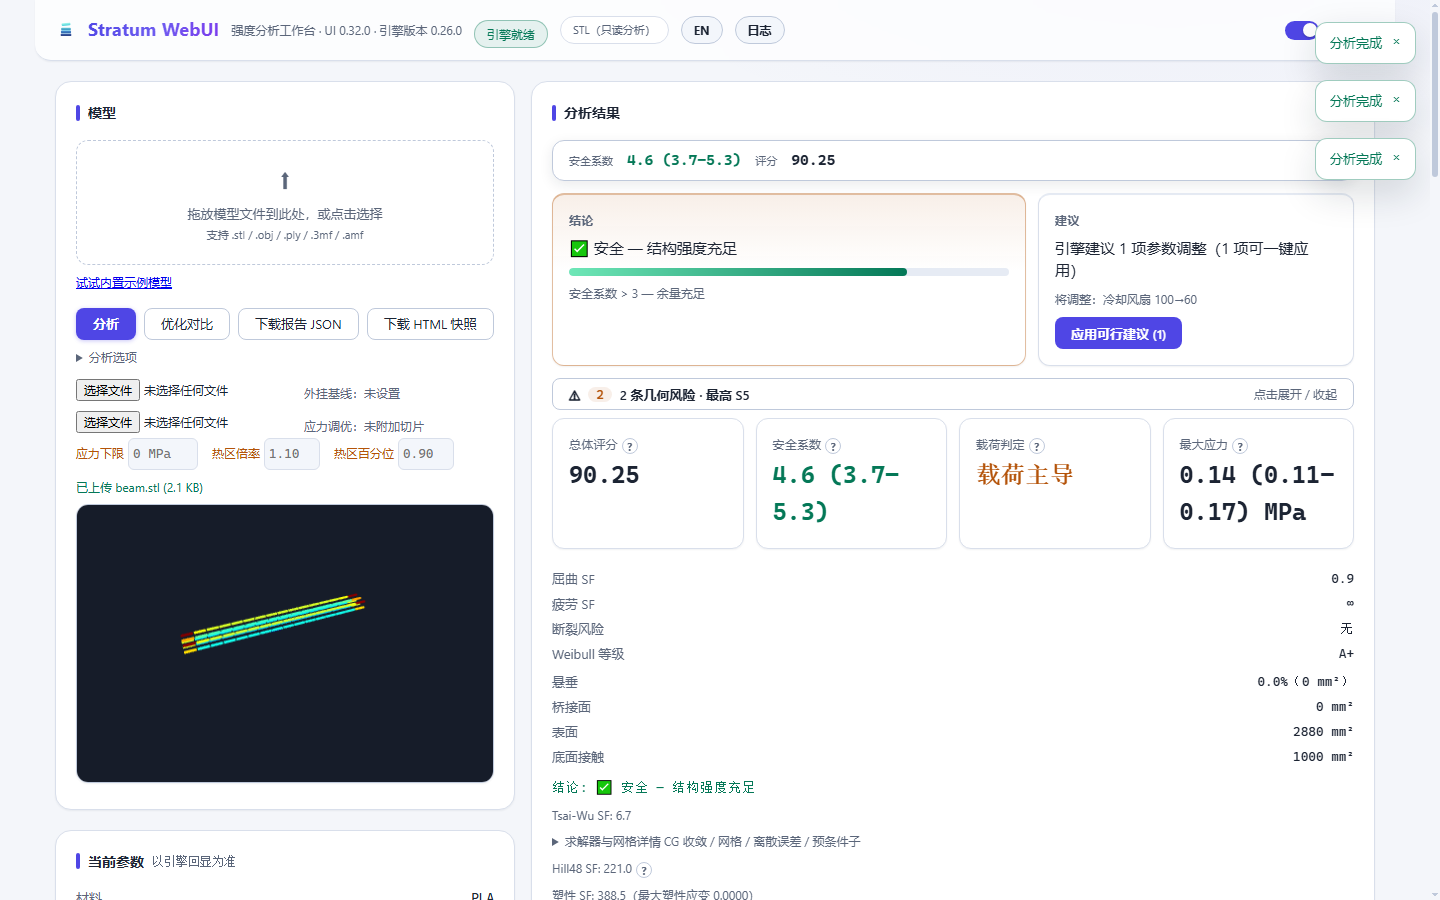
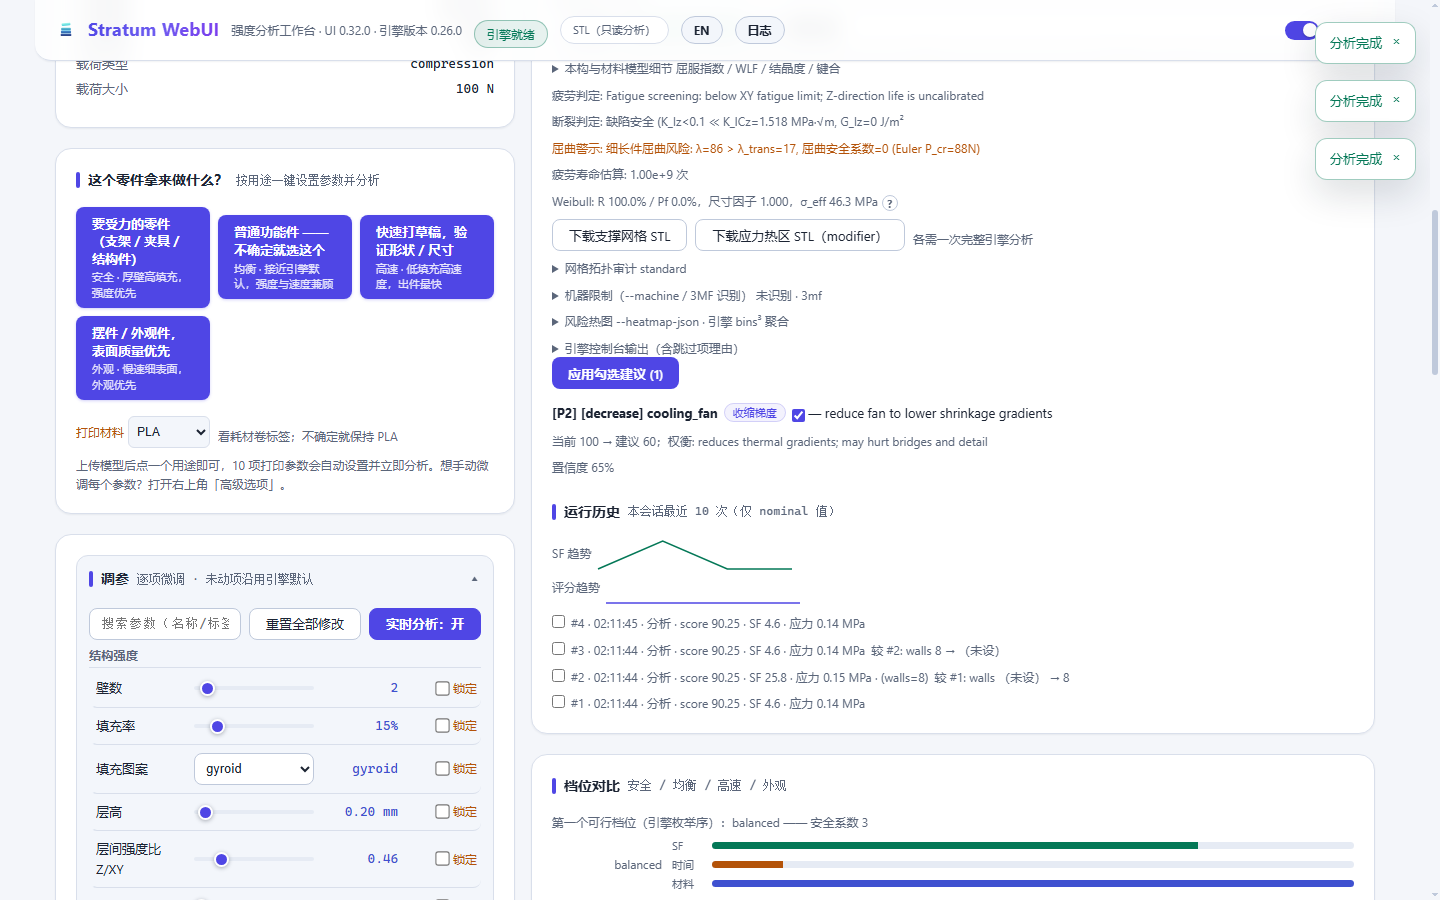
feat(webui): novice-flow trio — preset-to-sample bridge, verdict auto-scroll in simple mode, pre-report action row slim (v0.33.0)

diff --git a/tests/ux_alignment_check.js b/tests/ux_alignment_check.js
@@ -195,9 +195,12 @@ async function main() {
     // left at 3 and silently red since e7e53c3 — surfaced during v0.18 E10
     // work. Spirit of the pin: the row's composition is deliberate and the
     // dirty chip stays a span (E9 re-checks span-ness).
-    expect("E3 options: collapsed by default, badge hidden, primary row = 4 buttons",
+    // v0.33: pre-report (pristine) the export/compare trio hides under
+    // body.no-report — a disabled grey button with nothing to export is
+    // first-run noise; the full row returns with the first report (W18 below).
+    expect("E3 options: collapsed by default, badge hidden, pristine row = 分析 only",
            opt !== "missing" && opt.open === false && opt.badge === "none"
-           && opt.btns === "分析,优化对比,下载报告 JSON,下载 HTML 快照", JSON.stringify(opt));
+           && opt.btns === "分析", JSON.stringify(opt));
     await evalJs("(function(){var c=document.getElementById('opt-fast');" +
       "c.checked=true;c.dispatchEvent(new Event('change'));return 1})()");
     const badgeOn = await evalJs("(function(){var b=document.getElementById('opt-count');" +
@@ -859,6 +862,91 @@ async function main() {
     expect("E17h height: risky beam simple page ≤2200 (worst shape)",
            hB.simple === true && hB.wallOpen === false && hB.h <= 2200,
            JSON.stringify(hB));
+
+    // ---- W18 (v0.33) novice-flow trio: preset→sample bridge / verdict
+    // auto-scroll (simple, user-initiated) / pre-report action row ----
+    // pristine reset: drop the persisted session (page reload keeps
+    // sessionStorage per tab, so clear it explicitly) and force simple mode
+    await evalJs("try{sessionStorage.removeItem('stratum_session')}catch(e){};" +
+      "try{localStorage.setItem('stratum-ui-mode','0')}catch(e){}; 1");
+    await send("Page.reload");
+    for (let i = 0; i < 50; i++) {
+      if (await evalJs("typeof renderReport") === "function") break;
+      await sleep(150);
+    }
+    await sleep(600);  // status/presets arrive async — bridge needs both
+    const pristineRow = await evalJs("(function(){var host=" +
+      "document.getElementById('opt-details').parentNode;var b=[];" +
+      "host.querySelectorAll('.actions > button').forEach(function(x){" +
+      "if(x.offsetParent!==null)b.push(x.textContent)});" +
+      "return JSON.stringify({row:b.join(',')," +
+      "noReport:document.body.classList.contains('no-report')," +
+      "presetEnabled:(document.querySelectorAll('.preset-btn')[0]||{}).disabled===false})})()");
+    expect("W18 pristine: simple row = 分析 only + preset cards live (bridge)",
+           pristineRow.indexOf('"row":"分析"') >= 0
+           && pristineRow.indexOf('"noReport":true') >= 0
+           && pristineRow.indexOf('"presetEnabled":true') >= 0,
+           pristineRow);
+    // W2 bridge: click a preset card with NO model → sample loads, preset
+    // applies, one real analysis lands
+    await evalJs("(function(){var b=document.querySelector('.preset-btn[data-preset=safe]');" +
+      "if(b)b.click();return 1})()");
+    const bridgeOk = await waitDone("bridge run");
+    const bridge = await evalJs("(function(){return JSON.stringify({" +
+      "msg:document.getElementById('upload-msg').textContent," +
+      "cards:document.querySelectorAll('#summary-cards .sum-card').length," +
+      "walls:document.getElementById('cp-walls').textContent})})()");
+    expect("W18 bridge: preset click with no model loads the sample + applies it",
+           bridgeOk === true
+           && bridge.indexOf("已载入示例") >= 0
+           && bridge.indexOf('"cards":2') >= 0
+           && bridge.indexOf('"walls":"5"') >= 0,
+           bridgeOk + " " + bridge);
+    // W3 scroll: simple + user-initiated + verdict outside viewport → the
+    // card is brought into view (smooth scroll settles, poll ~3s)
+    await evalJs("window.scrollTo(0,0); 1");
+    await sleep(150);
+    await evalJs("(function(){var b=document.querySelector('.preset-btn[data-preset=fast]');" +
+      "if(b)b.click();return 1})()");
+    const scrollOk = await waitDone("fast preset run");
+    let scY = 0;
+    for (let i = 0; i < 10; i++) {
+      scY = await evalJs("window.scrollY||document.documentElement.scrollTop");
+      if (scY > 0) break;
+      await sleep(300);
+    }
+    const inView = await evalJs("(function(){var r=document.getElementById('summary-cards')" +
+      ".getBoundingClientRect();return r.top>=0&&r.top<window.innerHeight})()");
+    expect("W18 scroll: simple mode lands the verdict in view",
+           scrollOk === true && scY > 0 && inView === true,
+           scrollOk + " y=" + scY + " inView=" + inView);
+    // W4 post-report row: simple = 分析+快照; advanced = the full quartet
+    const rowSimple = await evalJs("(function(){var host=" +
+      "document.getElementById('opt-details').parentNode;var b=[];" +
+      "host.querySelectorAll('.actions > button').forEach(function(x){" +
+      "if(x.offsetParent!==null)b.push(x.textContent)});return b.join(',')})()");
+    expect("W18 row: post-report simple row = 分析 + 快照",
+           rowSimple === "分析,下载 HTML 快照", rowSimple);
+    await evalJs("(function(){var s=document.querySelector('.sw');if(s)s.click();return 1})()");
+    const rowAdv = await evalJs("(function(){var host=" +
+      "document.getElementById('opt-details').parentNode;var b=[];" +
+      "host.querySelectorAll('.actions > button').forEach(function(x){" +
+      "if(x.offsetParent!==null)b.push(x.textContent)});return b.join(',')})()");
+    expect("W18 row: post-report advanced row = full quartet",
+           rowAdv === "分析,优化对比,下载报告 JSON,下载 HTML 快照", rowAdv);
+    // W3 advanced control: same run shape — the mode gate must keep the
+    // scroll code path silent (spy on scrollIntoView; native scroll
+    // anchoring may still jitter a few px, which is not our call)
+    await evalJs("window.scrollTo(0,0);window.__siv=0;" +
+      "Element.prototype.scrollIntoView=function(){window.__siv++;return null}; 1");
+    await sleep(150);
+    await evalJs("(function(){var b=document.querySelector('.preset-btn[data-preset=safe]');" +
+      "if(b)b.click();return 1})()");
+    const advOk = await waitDone("advanced preset run");
+    await sleep(600);
+    const advSiv = await evalJs("window.__siv");
+    expect("W18 scroll: advanced mode never auto-scrolls (scrollIntoView spy)",
+           advOk === true && advSiv === 0, advOk + " calls=" + advSiv);
 
     console.log(fails === 0 ? "ux alignment E2E all green"
                             : fails + " FAILURES");

diff --git a/index.html b/index.html
@@ -554,6 +554,15 @@
   body.mode-simple:not(.detail-open) .detail-wall { display: none !important; }
   body:not(.mode-simple) #detail-fold-toggle { display: none; }
   body.no-report #detail-fold-toggle { display: none; }
+  /* v0.33 pre-report action row: a permanently-disabled export/compare
+     button is noise for a first-run novice (nothing to export yet, no
+     explanation why it's grey). The row is 分析 alone until the first
+     report lands — no-report flips off at first render (v0.18 pristine
+     semantics), and the disabled lifecycle behind these buttons is
+     untouched (visibility layer only, both modes). */
+  body.no-report #btn-compare,
+  body.no-report #btn-report,
+  body.no-report #btn-snapshot { display: none; }
   /* structured engine warnings (phase_d.buckling_warning /
      fracture_risk_detected) mirror above the fold so folding cannot bury a
      safety signal with no other structured channel. Default-hidden gate:
@@ -1540,6 +1549,9 @@ Promise.all([
     var bs = $("btn-sample"), ls = $("lnk-sample");
     if (bs) bs.style.display = "";
     if (ls) ls.style.display = "";
+    // v0.33: preset cards are clickable pre-model when the bridge target
+    // exists (buildPresetPanel may not have run yet — it has the twin guard)
+    setPresetEnabled(true);
   }
   buildPresetMaterialSelect();  // options from the live schema enum
   state.params = pm.params || [];
@@ -1811,7 +1823,11 @@ function buildPresetPanel() {
     b.title = (p.desc || "") + (p.desc ? "\n" : "") + "共 " +
       Object.keys(p.params || {}).length + " 项参数";
     b.dataset.preset = p.name;
-    b.disabled = true;  // enabled by applySession once a model is live
+    b.disabled = true;  // enabled by applySession once a model is live —
+    // v0.33: …or right here when the bundled sample ships (the preset→
+    // sample bridge makes a pre-model click useful instead of a dead end);
+    // status may have arrived before this build, so check both orders
+    if (state.sampleAvailable) b.disabled = false;
     b.onclick = function () { applyPreset(p); };
     box.appendChild(b);
   });
@@ -1869,7 +1885,20 @@ function onPresetMaterial() {
   }
 }
 function applyPreset(p) {
-  if (!state.token) { toast("请先上传模型", "err"); return; }
+  // v0.33 preset→sample bridge: cards are enabled at boot when the bundled
+  // sample ships (the use-case question invites clicking BEFORE any model),
+  // and the first click with no model loads the sample instead of dead-
+  // ending (disclosed by the 已载入示例 line — no extra toast; the preset's
+  // own 已应用预设 toast + 分析完成 tell the story). Frozen layouts without
+  // the sample keep the cards disabled, so the err branch below stays the
+  // unreachable-by-mouse defensive fallback it always was.
+  if (!state.token) {
+    if (state.sampleAvailable) {
+      loadSample(function () { applyPreset(p); });
+      return;
+    }
+    toast("请先上传模型", "err"); return;
+  }
   if (state.running) { toast("上一次分析尚未结束，请稍候", "info"); return; }
   // v0.9 pre-fix (sibling of applyCheckedSuggestions): analyze() itself has
   // no batch gate (only scheduleAuto does), so a click mid-batch would run
@@ -2736,7 +2765,12 @@ function onFile() {
 // — success path identical to onFile's (the server response is the same
 // shape), so every downstream gate (reset-on-new-model, session guards,
 // F5 restore) applies for free. No file ever leaves the machine.
-function loadSample() {
+// v0.33 optional afterSession callback: the preset→sample bridge (below)
+// reuses this session path and applies the clicked preset instead of the
+// plain analyze. Both pre-existing entries (guide button + panel link) call
+// it argumentless — behavior unchanged. The user-won guard drops the bridge
+// when a real upload landed while our fetch was in flight (keep theirs).
+function loadSample(afterSession) {
   $("upload-msg").className = "ok";
   $("upload-msg").textContent = "载入示例模型…";
   fetch("/api/sample", { method: "POST",
@@ -2744,11 +2778,13 @@ function loadSample() {
     .then(function (r) { return r.json(); })
     .then(function (j) {
       if (!j.ok) throw new Error(j.error || "示例载入失败");
+      if (afterSession && state.token) return;  // superseded by user action
       resetTuningState();
       applySession(j);
       persistSession();
       $("upload-msg").textContent = "已载入示例 " + j.name
         + " (" + (j.size / 1024).toFixed(1) + " KB)";
+      if (afterSession) return afterSession(j);
       return analyze(false);
     })
     .catch(function (e) {
@@ -3098,6 +3134,25 @@ function analyze(compare, auto) {
     // auto runs stay quiet — a toast after every slider release would be noise;
     // errors and cancels below still surface (they need user attention)
     if (!auto) toast(compare ? "对比分析完成" : "分析完成", "ok");
+    // v0.33 novice visibility: in simple mode, bring the verdict into view
+    // when it landed outside the viewport. v0.18 rejected auto-scroll while
+    // the sticky verdict carried this job — v0.22 hid that sticky in simple
+    // mode, so the old rationale is gone. User-initiated runs only (!auto):
+    // real-time re-runs and auto-tune rounds must never yank the scroll.
+    // 80px口径 = "card top must at least peek into the viewport".
+    if (!auto && document.body.classList.contains("mode-simple")) {
+      var sc = $("summary-cards");
+      if (sc && sc.children.length) {
+        var scTop = sc.getBoundingClientRect().top;
+        var vh = window.innerHeight || document.documentElement.clientHeight;
+        if (scTop > vh - 80) {
+          var reduce = window.matchMedia
+            && window.matchMedia("(prefers-reduced-motion: reduce)").matches;
+          sc.scrollIntoView({ block: "start",
+            behavior: reduce ? "auto" : "smooth" });
+        }
+      }
+    }
   }).catch(function (e) {
     // v0.24: same session-change guard on the rejection path — a late
     // network error / abort of the old session's run must not toast over

diff --git a/server.py b/server.py
@@ -165,7 +165,7 @@ def _validated_float(raw, lo, hi):
 #         discloses gcode_diff_available; companion absence hides the panel
 #         (degrade, never a blocker); console channel = stderr (the
 #         one-line summary lives there, unlike stratum.exe's stdout).
-UI_VERSION = "0.32.0"
+UI_VERSION = "0.33.0"
 
 # PORT is consumed by the bind call (int); GRID is consumed by argv (kept as
 # the original string — a list argv with an int element raises TypeError and

diff --git a/ROADMAP.md b/ROADMAP.md
@@ -1041,6 +1041,50 @@
   语言（引擎侧，延续）；W2/W3/W4 走查发现（预设先于模型点击死路 /
   简单模式分析完成后结论在折叠线下方 / 首屏禁用快照按钮）→ 轮 3
 
+### v0.33.0 — 小白流程三件套：预设→示例桥 / 结论自动到位 / 首屏行动行瘦身（2026-10-05）
+
+> 8h 小白可用性专场·轮 3（走查发现 W2/W3/W4 清偿）。independent-REFUTE 一轮
+> （VERDICT: REJECT——**blocker 推翻 W2 现状描述**：预设卡在无模型时是
+> disabled 灰卡（不可点），applyPreset 的 !token err 分支对用户不可达=死
+> 防御代码；真实首屏问题是「用途问句邀请点击但灰卡死相」。详见 loop-journal
+> 迭代 107）。
+
+- [x] **W2 预设→示例桥**：预设卡启动即随示例可用（buildPresetPanel 与
+      status 回填双序守卫 setPresetEnabled）；无模型点按 → loadSample
+      可选 afterSession 回调（用户动作先落地则桥放弃保留其会话——B3/B4/B6
+      竞态面一行守卫全覆盖）→ 回调 applyPreset 正常路径；披露走
+      「已载入示例」upload-msg 行，**零新 toast**（refuter (g)：桥 toast
+      会与预设 toast+分析完成三连堆叠）；两个既有入口（guide 按钮/面板
+      链接）无回调行为不变；frozen 布局无示例时维持灰卡，err 分支保持
+      不可达防御
+- [x] **W3 结论自动到位**：analyze 成功路径（updateNoReportState 后），
+      mode-simple 且 summary-cards 非空且 top > innerHeight-80（80px 口径
+      注释=「卡片至少露头」）→ scrollIntoView(block:start)，
+      reduced-motion 降级 behavior:auto；仅用户触发（!auto——实时重跑与
+      自动调参各轮不拽滚动，refuter minor）；v0.18 拒自动滚屏的「sticky
+      职能重叠」理由在 v0.22 隐藏 sticky 后失效，本裁决重启
+- [x] **W4 首屏行动行瘦身**：body.no-report 下 btn-compare/btn-report/
+      btn-snapshot display:none（两模式统一——无可导出物的灰按钮=首跑噪声；
+      disabled 生命周期不动，纯可见性层；首渲染 no-report 摘除全行回归；
+      换模 resetTuningState 先 resetResultsPanel 再翻 no-report，无中间态
+      ——refuter (d) 核实）
+- [x] **测试**：E3 pin 更新（pristine 行=「分析」，立法本意=行构成
+      deliberate 保留，v0.17→v0.18 同款先例）+ W18 块 6 断言（pristine 行
+      构成+桥激活态/桥全链路 walls=5/简单模式滚动到位/两模式 post-report
+      行构成/advanced scrollIntoView 间谍=0）；E18 需 pristine 态——置于
+      套件尾，sessionStorage 清理 + reload 恢复
+- 配套：README 预设/结果段更新；UI_VERSION 0.33.0
+- 验证：smoke **157/157**；render_check **198**；ux **全绿**（+W18 6 项）；
+  browser/browser_en/i18n（FAIL 0+CONCAT 0）/consistency 全绿；sabotage
+  ×3 刀（砍桥→W18 桥+5 项红；砍 scrollIntoView→滚动断言红；砍 W4 CSS→
+  E3+W18 pristine 双红）翻红后还原。过程注记：advanced 对照首版判据
+  （scrollY===0）被浏览器原生 scroll-anchoring 抖动（26px）打假——改
+  scrollIntoView 间谍计数，几何判据在双栏布局下不可判
+- 遗留 backlog：B3 双击桥先到者胜（后点预设静默放弃——2s 后重点即达，
+  披露于 journal；加时间戳比较无收益）；W3 的 auto-tune 轮间滚动未单独
+  E2E（守卫 !auto 代码级+间谍机制已证）；多轮真链/overall_band/深链语言
+  （引擎侧延续）
+
 ### v1.0 — 方向四：3D 可视化（半数被引擎契约卡住，见 D2）
 
 

diff --git a/README.md b/README.md
@@ -151,7 +151,10 @@ console 语义，UI 不另造色带）。三个热区参数（应力下限 MPa /
    要受力 / 不确定就选这个 / 打草稿 / 摆件 四卡（对应 安全/均衡/高速/外观）：
    自动设置全部 10 项打印参数并立即分析；STL 输入时附带材料一问（默认 PLA，
    答案同轮覆盖预设）；预设由服务端定义（`/api/params` `presets` 字段含 `use`
-   文案，值随引擎枚举漂移自动兜底）。想手动微调？打开顶栏「高级选项」
+   文案，值随引擎枚举漂移自动兜底）。想手动微调？打开顶栏「高级选项」。
+   v0.33：预设卡随内置示例就绪即可点——未上传模型时点按会自动载入示例模型
+   再应用所选预设（披露走「已载入示例」行，无额外弹窗；fetch 期间若有真实
+   上传先落地则保留用户会话，桥接放弃）
 3. **当前参数**（高级选项）— 引擎实际使用的参数（来自 JSON 报告 `input` 块）
 4. **调参**（高级选项）— 滑杆按 结构强度 / 材料与温度 / 速度与冷却 分组，
    改参数 + 「锁定」勾选（对应引擎 `--lock` 语义）。
@@ -160,6 +163,9 @@ console 语义，UI 不另造色带）。三个热区参数（应力下限 MPa /
    上传会重置全部改动与锁定，新模型按自身基线分析
 5. **分析结果** — 结果区顶部为结论 hero 卡（`phase_b.assessment` verbatim + SF 刻度条）
    与 SF/评分较上次运行的 ▲▼ 增量徽章；高级模式另有悬浮状态条在滚动调参时常驻 SF/评分；
+   简单模式下用户主动触发的分析完成后，若结论卡落在视口外会自动滚动到位（v0.33——
+   实时重跑与自动调参各轮不滚动，尊重 prefers-reduced-motion）；首份报告前主行动行
+   只显示「分析」（v0.33——三个导出/对比按钮无可导出物时纯噪声，首渲染后回归全行）；
    「应用建议」：简单模式一键应用全部可执行项（附「将调整」摘要行），高级模式按勾选应用
    （v0.9.1 起白名单=PARAM_META 全部数值滑杆键，
    含引擎原生 walls/infill——0.25.0 对齐已确认键名与 percent 单位，真实样本见
